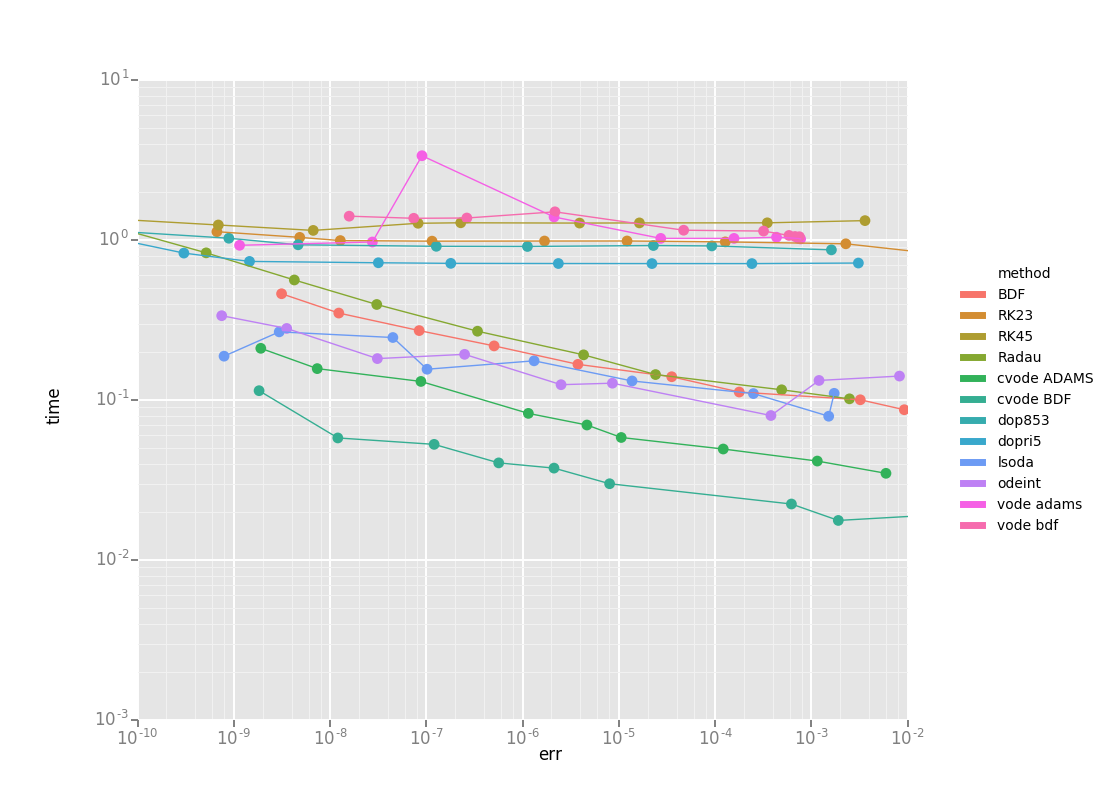
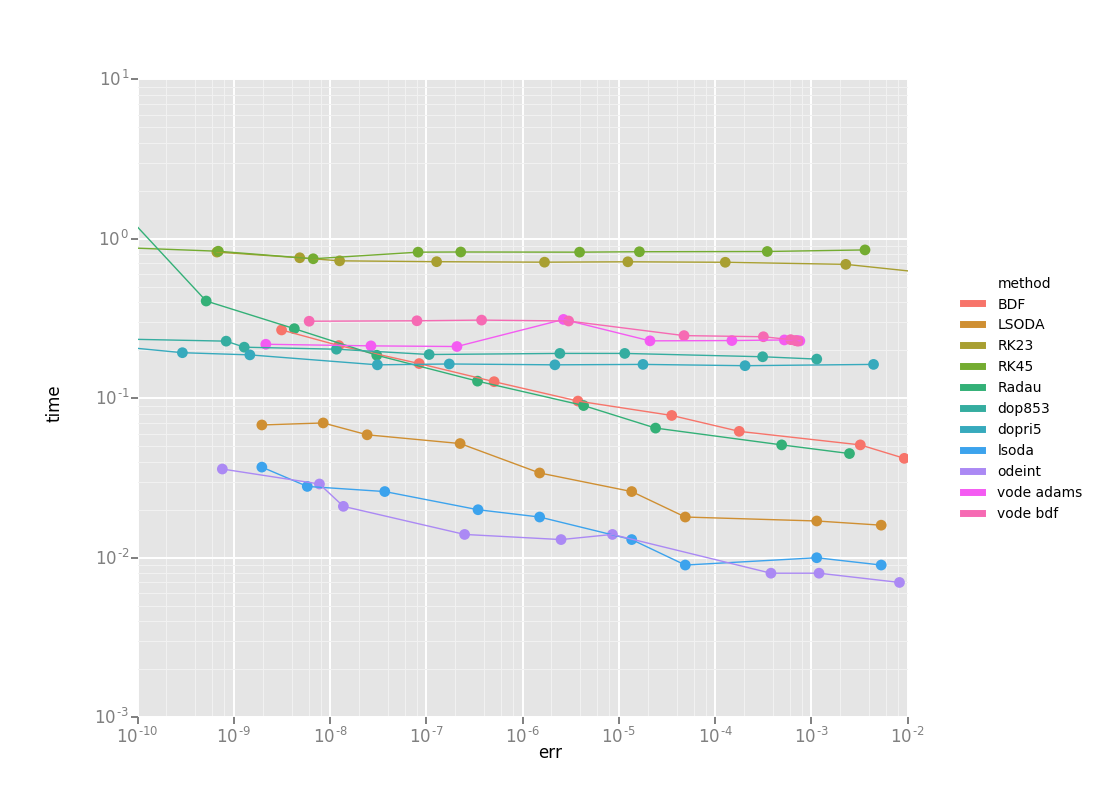
Make atol in ode class match solver class default in performance tests

diff --git a/performance_tests/main.py b/performance_tests/main.py
@@ -45,7 +45,7 @@ class scipy_ode_class:
             return model.f(t, y, model.k)
         solver = ode(collected_ode)
         solver.set_integrator(self.solver, method=self.method, rtol=rtol,
-                              nsteps=10000)
+                              atol=1e-6, nsteps=10000)
         solver.set_initial_value(model.y0, 0.0)
 
         result = np.empty((len(model.ts), len(model.y0)))
@@ -62,7 +62,7 @@ class scipy_odes_class(scipy_ode_class):
     def __call__(self, model, rtol):
         solver = odes_ode(self.solver, model.f_odes, old_api=False,
                           lmm_type=self.method, rtol=rtol,
-                          user_data = model.k)
+                          atol=1e-6, user_data=model.k)
         solution = solver.solve(model.ts, model.y0)
         for i, t in enumerate(model.ts):
             try:
@@ -78,10 +78,10 @@ class scipy_solver_class:
         self.name = name
 
     def __call__(self, model, rtol):
-        def collected_ode(t, y):
+        def combined_ode(t, y):
             return model.f(t, y, model.k)
 
-        sol = solve_ivp(collected_ode, [0.0, np.max(model.ts)], model.y0, method=self.name, rtol=rtol, t_eval=model.ts)
+        sol = solve_ivp(combined_ode, [0.0, np.max(model.ts)], model.y0, method=self.name, rtol=rtol, t_eval=model.ts)
 
         return sol.y.transpose()
 
